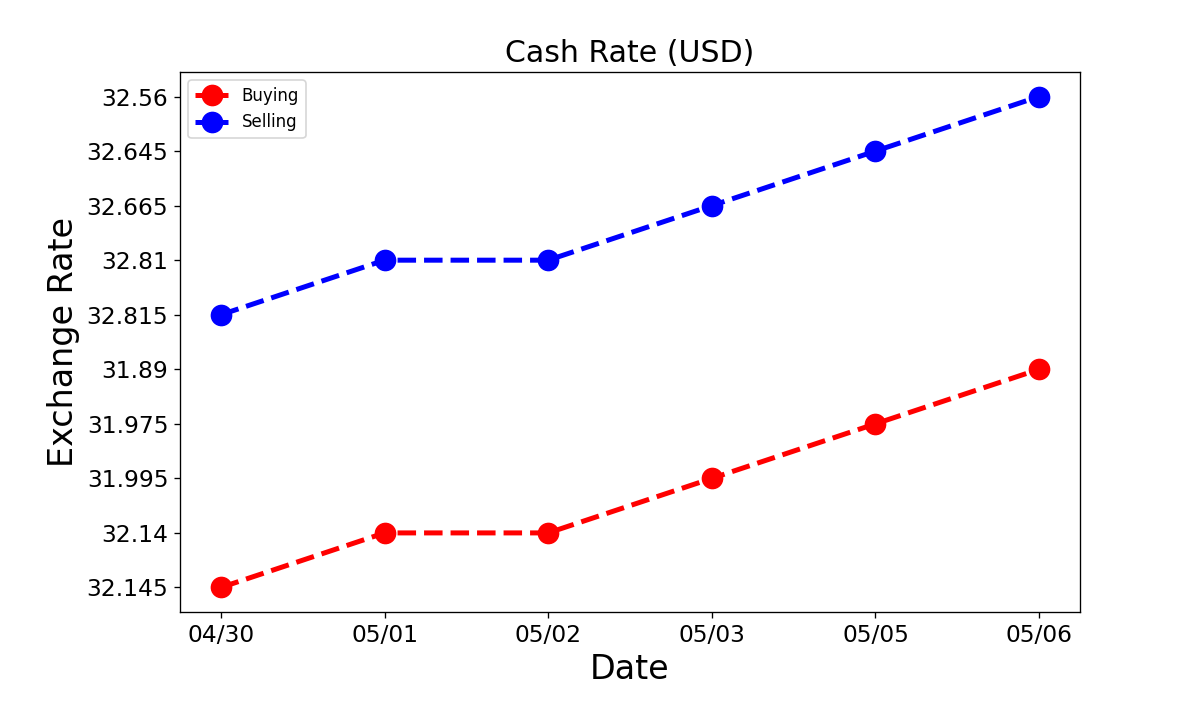
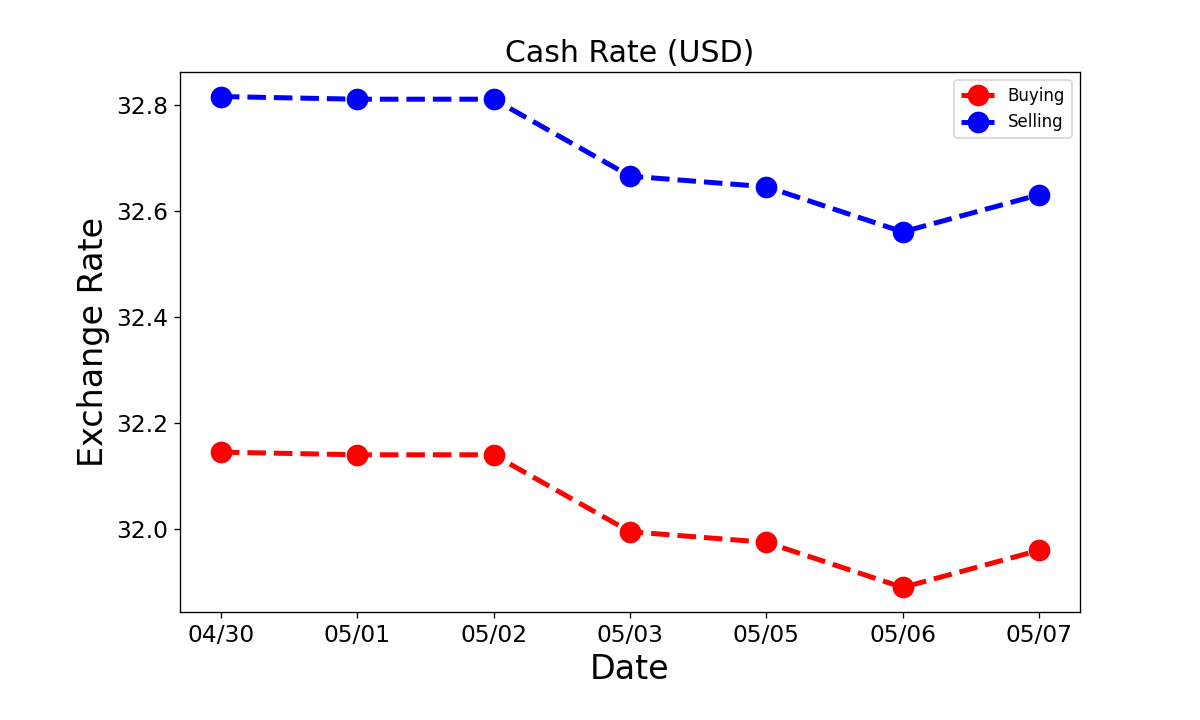
currency: convert string to float

diff --git a/RequestData/exchange_rate.py b/RequestData/exchange_rate.py
@@ -62,12 +62,12 @@ with open('exchange_rate_history.csv', newline='', encoding='utf-8') as csvfile:
         if rows.line_num == 1: #忽略第一列的title
             continue
         x1.append(row[0])
-        y_USDbuy.append(row[1])
-        y_USDsell.append(row[2])
-        y_JPYbuy.append(row[3])
-        y_JPYsell.append(row[4])
-        y_EURbuy.append(row[5])
-        y_EURsell.append(row[6])
+        y_USDbuy.append(float(row[1]))
+        y_USDsell.append(float(row[2]))
+        y_JPYbuy.append(float(row[3]))
+        y_JPYsell.append(float(row[4]))
+        y_EURbuy.append(float(row[5]))
+        y_EURsell.append(float(row[6]))
 
 #plot
 fig1  = plt.figure(figsize=(10,6), dpi=120)
